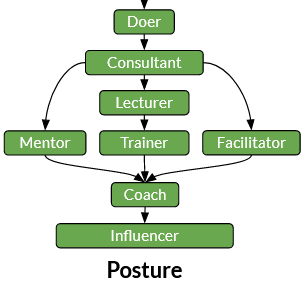
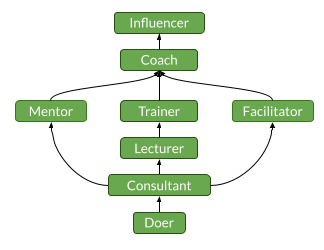
feat(posture): Add focus on enabling behavioral changes + diagram standardization

diff --git a/paths/posture.md b/paths/posture.md
@@ -2,12 +2,12 @@
 
 ## Path breakdown
 
-The Posture path focuses on personal capabilities.
+The Posture path focuses on conscious behaviours that can positively impact people around us.
 
 _Posture_ might be the most difficult path to explain, as it is largely covered in the literature and the word has so many meanings depending on the authors.
 So we first tried to clarify what we call _Posture_ in our context.
 
-_Posture_ is our ability to use different techniques to bring a team or an individual to a certain targeted state or to reach a pre-defined objective.
+_Posture_ is our ability to use different behavioral techniques to bring a team or an individual to a certain targeted state or to reach a pre-defined objective.
 Over time, the initial plan or the targeted state often change. But any necessary adaptations can also be made consciously with the right timing.
 
 However, this requires some strong foundation:
@@ -38,6 +38,7 @@ The Doer posture marks the beginning of the path.
 Doers are able to:
 - Follow a plan, an order, an idea...
 - Change course in case something goes wrong
+- Inspire action by setting an example
 
 
 ### Consultant
@@ -46,8 +47,9 @@ Consultants are at the next level. They have the ability to go beyond simple tas
 
 They also showcase the following:
 - Ability to communicate clearly with objectives' stakeholders
-- Ability to go from what has been 'asked' to be done to the (real) need
+- Ability to clarify and challenge needs expressions
 - Ability to identify bottlenecks before they congest a context
+- Ability to propose options or alternatives
 
 
 From this point onward, there are 3 dictinct paths. They overlap each other to some extent, as helping individuals or groups requires some fundamental techniques.
@@ -114,7 +116,7 @@ As for abilities, Coaches showcase the following:
 
 ### Influencer
 
-As seen with the previous steps, we value the abilities enabling knowledge sharing. So, in our path, the ability to share, promote a piece of knowledge or a practice, with a deep analysis on how it works and why, has a significant impact.
+As seen with the previous steps, we value the abilities enabling the positive change of behaviours or capabilities of the people around us. So, in our path, the ability to share, promote a piece of knowledge or a practice, with a deep analysis on how it works and why, has a significant impact.
 
 To that end, Influencers should master:
 - the _logos_ (the logical part of the message, we make sense by leveraging the most relevant arguments)
@@ -126,6 +128,7 @@ Beginners may focus on only one aspect of message communication, but these three
 Moreover, Influencers also showcase the following:
 - Ability to engage people in a path, a change or a transformation
 - Ability to share and explain their firm beliefs
+- Ability to naturally reach consensuses on certain matters
 
 
 [🏠Go Back](../README.md)
